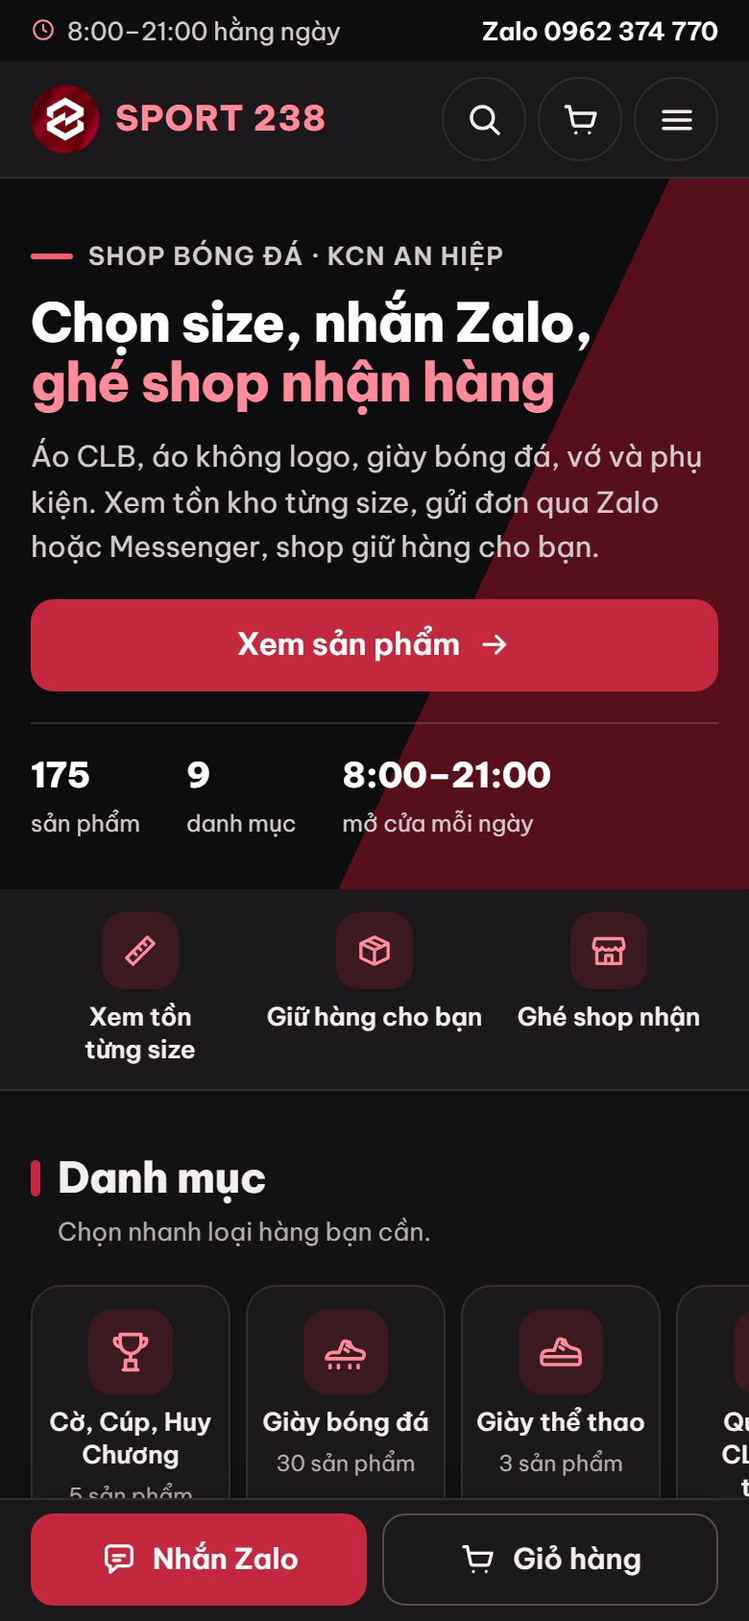
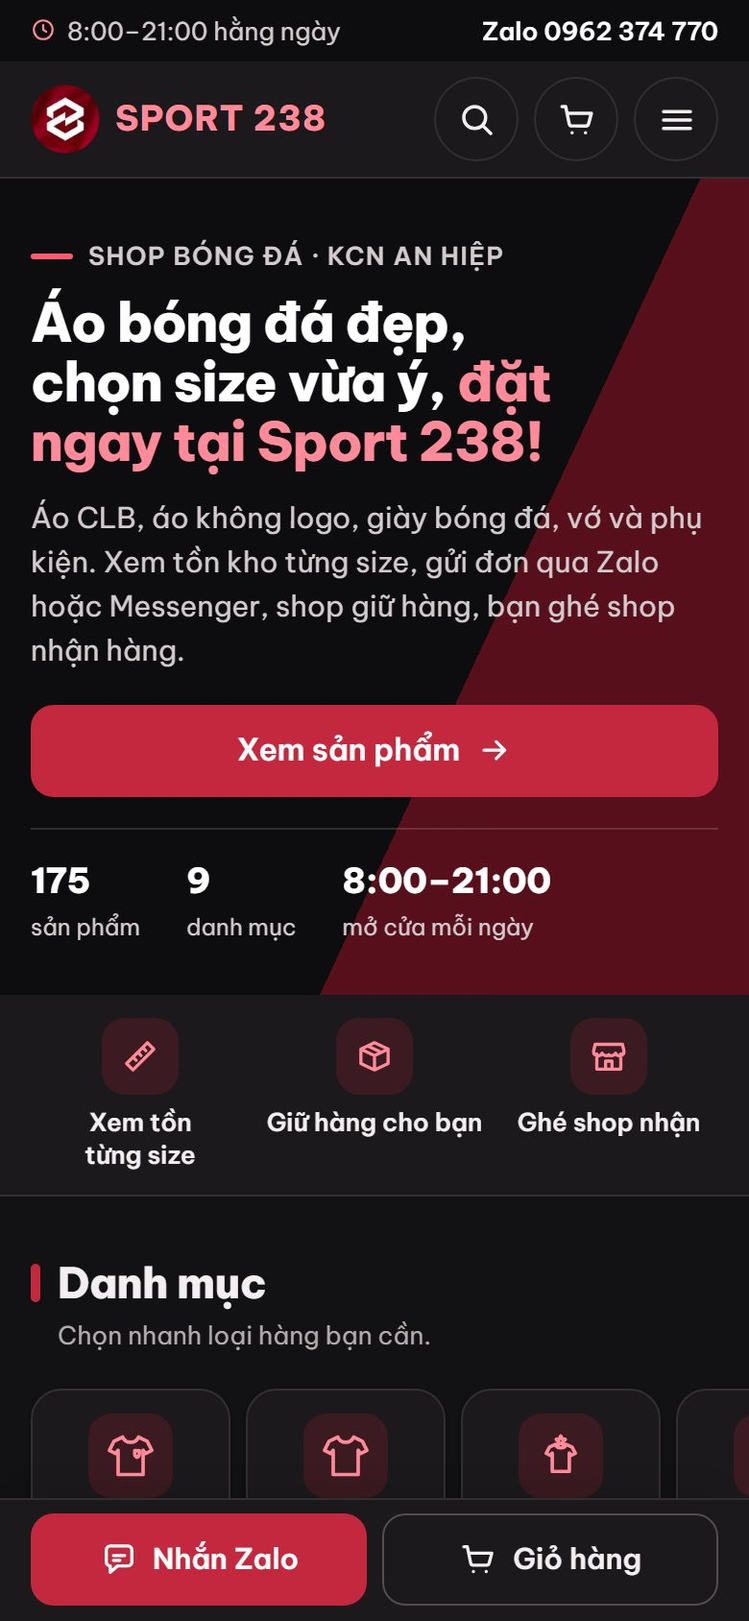
Yêu cầu 24/11 tối: khẩu hiệu mới, quần áo/giày trước Cờ cúp, lọc giá luôn hiện, Messenger điền sẵn đơn, nút Chia sẻ điền sẵn trên điện thoại
- SLOGAN "Áo bóng đá đẹp, chọn size vừa ý, đặt ngay tại Sport 238!" (Next + HTML dự phòng, HTML nhỏ chữ giữ 3 dòng)
- Thứ tự danh mục: Quần áo CLB, không logo, trẻ em, Giày bóng đá, Giày thể thao, Cờ cúp… (Next, HTML, trang quản trị, CLAUDE.md)
- Lọc giá ra ngoài "Lọc thêm" (điện thoại thấy ngay)
- mText: m.me/…?text= cho giỏ, hỏi shop, đặt đội; nút Chia sẻ của máy gửi chữ (+ ảnh) điền sẵn; Zalo không có cách điền sẵn
- xem-web.bat: xem đúng bản chính (localhost:3000 là bản HTML dự phòng)
- PROPOSALS: bảng tình trạng các mục đã duyệt, đề xuất mới M1–M12; ghi nhận C3 chưa làm
- tests/test_gui_don.py; toàn bộ 19/19 bài 0 lỗi, Lighthouse đạt

diff --git a/sport-shop-app/public/index.html b/sport-shop-app/public/index.html
@@ -32,6 +32,8 @@ a{color:inherit}button{font:inherit;cursor:pointer;color:inherit}img{max-width:1
 .hero{display:grid;grid-template-columns:1.15fr 1fr;gap:30px;align-items:center;padding:56px 0 30px}
 .pill{display:inline-block;background:var(--soft);color:var(--accent2);font-weight:600;font-size:14px;padding:7px 16px;border-radius:99px}
 .hero h1{font-size:clamp(34px,5.4vw,62px);line-height:1.08;font-weight:800;margin:18px 0 16px;letter-spacing:-.02em}.hl{color:var(--accent)}
+/* khẩu hiệu dài hơn (24/11/2026): nhỏ chữ để giữ 3 dòng trên máy tính */
+.hero h1.slg{font-size:clamp(28px,4vw,48px)}
 .hero p{font-size:19px;color:var(--ink);margin:0 0 26px;max-width:30em}
 .btn{display:inline-flex;align-items:center;justify-content:center;gap:8px;border:2px solid var(--accent);background:var(--accent);color:var(--on);font-weight:700;padding:15px 34px;border-radius:99px;text-decoration:none;box-shadow:0 10px 24px -10px var(--accent)}
 .btn.ghost{background:transparent;color:var(--accent2);box-shadow:none}.btn:disabled{opacity:.5;cursor:default}
@@ -284,7 +286,7 @@ function fold(s){return String(s||"").toLowerCase().normalize("NFD").replace(/[\
 var ADULT=["S","M","L","XL","XXL","XXXL","XXXXL"];
 function sk(s){var n=+s;return isNaN(n)?100+ADULT.indexOf(s):n}
 function grp(c,s){return c==="Giày bóng đá"||c==="Giày thể thao"||!s?"":(/^\d+$/.test(s)?"Trẻ em":/^(XS|S|M|L|XL|XXL|XXXL|XXXXL|[2-6]XL)$/i.test(s)?"Người lớn":"")}
-var CATS=[["Cờ, Cúp, Huy Chương","🏆","#7c5a10","#c99a2e"],["Giày bóng đá","👟","#a3122a","#d63a50"],["Giày thể thao","🏃","#44403c","#857467"],["Quần áo CLB/Đội tuyển","⚽","#2b2b30","#55555e"],["Quần áo không logo","👕","#8a0f23","#bd2a3f"],["Quần áo trẻ em","🧒","#c2410c","#f0883e"],["Phụ kiện thể thao","🎒","#3a3a40","#1d1d20"],["Vớ/tất ống đồng","🧦","#b3202f","#e0566a"],["Cầu lông","🏸","#0f6a45","#2faa6f"]];
+var CATS=[["Quần áo CLB/Đội tuyển","⚽","#2b2b30","#55555e"],["Quần áo không logo","👕","#8a0f23","#bd2a3f"],["Quần áo trẻ em","🧒","#c2410c","#f0883e"],["Giày bóng đá","👟","#a3122a","#d63a50"],["Giày thể thao","🏃","#44403c","#857467"],["Cờ, Cúp, Huy Chương","🏆","#7c5a10","#c99a2e"],["Phụ kiện thể thao","🎒","#3a3a40","#1d1d20"],["Vớ/tất ống đồng","🧦","#b3202f","#e0566a"],["Cầu lông","🏸","#0f6a45","#2faa6f"]];
 var EMO={};CATS.forEach(function(c){EMO[c[0]]=c[1]});
 var NEEDSIZE=["Giày bóng đá","Giày thể thao","Quần áo CLB/Đội tuyển","Quần áo không logo","Quần áo trẻ em"];
 function hue(t){var h=0;String(t).split("").forEach(function(c){h=(h*31+c.charCodeAt(0))%360});return h}
@@ -387,7 +389,7 @@ function list(){var a=matches(),show=a.slice(0,S.limit),r=a.length-show.length,q
 function refilter(){S.limit=PAGE;list()}
 function syncChips(){all(".chip").forEach(function(x){x.setAttribute("aria-pressed",x.dataset.c===S.cat)})}
 function home(){var cn=["Tất cả"].concat(CATS.map(function(c){return c[0]}));
- $("#app").innerHTML='<div class="herobg"><div class="wrap"><section id="top" class="hero"><div><span class="pill">⚽ PASSION FOR FOOTBALL</span><h1>Đồ bóng đá,<br><span class="hl">chọn đúng size</span><br>nhận tại shop</h1><p>Xem size, màu và tình trạng hàng, thêm vào giỏ rồi gửi danh sách cho shop qua Zalo hoặc Messenger. Shop giữ hàng, bạn ghé lấy.</p><div class="hbtns"><a class="btn" href="#san-pham">Xem sản phẩm →</a><a class="btn ghost" data-zl target="_blank" rel="noopener">💬 Nhắn Zalo</a></div></div>'+
+ $("#app").innerHTML='<div class="herobg"><div class="wrap"><section id="top" class="hero"><div><span class="pill">⚽ PASSION FOR FOOTBALL</span><h1 class="slg">Áo bóng đá đẹp,<br><span class="hl">chọn size vừa ý</span>,<br>đặt ngay tại Sport 238!</h1><p>Xem size, màu và tình trạng hàng, thêm vào giỏ rồi gửi danh sách cho shop qua Zalo hoặc Messenger. Shop giữ hàng, bạn ghé lấy.</p><div class="hbtns"><a class="btn" href="#san-pham">Xem sản phẩm →</a><a class="btn ghost" data-zl target="_blank" rel="noopener">💬 Nhắn Zalo</a></div></div>'+
[1 lines of base64/hex data omitted]
  '<div class="stats"><div class="stat"><b>'+P.length+'</b><span>sản phẩm</span></div><div class="stat"><b>'+CATS.length+'</b><span>danh mục</span></div><div class="stat"><b>📏</b><span>Xem tồn từng size</span></div><div class="stat"><b>📍</b><span>Ghé shop nhận hàng</span></div></div></div></div>'+
  '<div class="ribbon" aria-hidden="true"><div><span>ÁO CLB &amp; ĐỘI TUYỂN ⚽</span><span>GIÀY BÓNG ĐÁ 👟</span><span>ĐỒNG PHỤC ĐỘI NHÓM 🎽</span><span>CÚP · HUY CHƯƠNG 🏆</span><span>PHỤ KIỆN 🎒</span><span>CẦU LÔNG 🏸</span><span>ÁO CLB &amp; ĐỘI TUYỂN ⚽</span><span>GIÀY BÓNG ĐÁ 👟</span><span>ĐỒNG PHỤC ĐỘI NHÓM 🎽</span><span>CÚP · HUY CHƯƠNG 🏆</span><span>PHỤ KIỆN 🎒</span><span>CẦU LÔNG 🏸</span></div></div>'+

diff --git a/sport-shop-next/frontend/components/CartDrawer.tsx b/sport-shop-next/frontend/components/CartDrawer.tsx
@@ -1,6 +1,6 @@
 "use client";
 import { useEffect, useRef, useState } from "react";
-import { HOURS, links, money, OVER } from "@/lib/shop";
+import { HOURS, links, money, mText, OVER } from "@/lib/shop";
 import { Icon } from "./Icons";
 import { useShop } from "./Providers";
 
@@ -10,7 +10,7 @@ export default function CartDrawer() {
   const taRef = useRef<HTMLTextAreaElement>(null);
   const dr = useRef<HTMLDivElement>(null);
   const opener = useRef<HTMLElement | null>(null);
-  const [msg, setMsg] = useState<{ ok: boolean; where: string } | null>(null);
+  const [msg, setMsg] = useState<{ ok: boolean; where: string; shared?: boolean } | null>(null);
   const [ask, setAsk] = useState(false);
   const has = items.length > 0;
   const text = has ? orderText() : "";
@@ -60,24 +60,27 @@ export default function CartDrawer() {
     setMsg({ ok, where });
     toast(ok ? "Đã sao chép đơn hàng" : "Chưa sao chép được, hãy sao chép thủ công");
   };
-  // N1: gửi đơn kèm ảnh sản phẩm bằng nút chia sẻ của điện thoại (chọn Zalo/Messenger trong bảng chia sẻ).
-  // Chỉ hiện khi máy chia sẻ được tệp và có món có ảnh thật. Chép chữ trước: một số ứng dụng bỏ chữ khi nhận ảnh.
+  // N1 + "không cần dán": trên điện thoại, nút Chia sẻ của máy đưa sẵn chữ đơn (và ảnh từng món nếu có) vào Zalo/Messenger,
+  // khách chỉ chọn Zalo → chọn shop → Gửi. Web không thể tự dán vào khung chat Zalo (Zalo không cho), nên đây là cách gần nhất.
+  // Chép chữ trước: một số ứng dụng bỏ chữ khi nhận ảnh.
+  const [canShare, setCanShare] = useState(false);
   const [canFiles, setCanFiles] = useState(false);
   useEffect(() => {
+    setCanShare(typeof navigator.share === "function" && matchMedia("(pointer: coarse)").matches);
     try { setCanFiles(!!navigator.canShare?.({ files: [new File([new Blob(["x"])], "a.jpg", { type: "image/jpeg" })] })); } catch { setCanFiles(false); }
   }, []);
-  const withImg = items.filter((i) => i.img);
-  const shareImages = async () => {
+  const withImg = canFiles ? items.filter((i) => i.img) : [];
+  const shareOrder = async () => {
     const ok = await copyText(text);
     try {
       const files = await Promise.all([...new Map(withImg.map((i) => [i.img!, i])).values()].map(async (i) => {
         const b = await (await fetch(i.img!)).blob();
         return new File([b], `${i.sku}.${(b.type.split("/")[1] || "jpg").replace("jpeg", "jpg")}`, { type: b.type || "image/jpeg" });
       }));
-      await navigator.share({ files, text });
-      setMsg({ ok, where: "ứng dụng vừa chọn" });
+      await navigator.share(files.length ? { files, text } : { text });
+      setMsg({ ok, where: "", shared: true });
     } catch (e) {
-      if ((e as Error)?.name !== "AbortError") toast("Máy chưa gửi được ảnh. Hãy dùng nút Sao chép đơn & mở Zalo.");
+      if ((e as Error)?.name !== "AbortError") toast("Máy chưa chia sẻ được. Hãy dùng nút Sao chép đơn & mở Zalo.");
     }
   };
 
@@ -128,8 +131,12 @@ export default function CartDrawer() {
             <textarea ref={taRef} id="ordtxt" readOnly rows={5} value={text} aria-label="Nội dung đơn hàng" />
             <div className={"cpok " + (msg ? (msg.ok ? "ok" : "bad") : "")} id="cpok" role="status" hidden={!msg}>
               {msg && <Icon n={msg.ok ? "check" : "warn"} />}
-              <span>{msg && (msg.ok
-                ? `Đã sao chép đơn hàng. ${msg.where ? `Trong ${msg.where}, bấm vào khung chat, dán (Ctrl+V hoặc bấm giữ rồi chọn Dán) và gửi cho shop.` : "Mở Zalo hoặc Messenger, dán vào khung chat rồi gửi cho shop."}`
+              <span>{msg && (msg.shared
+                ? "Đơn đã được điền sẵn trong ứng dụng bạn chọn. Chọn Sport 238 rồi bấm Gửi."
+                : msg.ok
+                ? msg.where === "Messenger"
+                  ? "Messenger đã điền sẵn đơn vào khung chat, bạn chỉ cần bấm Gửi. Nếu khung chat trống: bấm giữ rồi chọn Dán (đơn đã được sao chép)."
+                  : `Đã sao chép đơn hàng. ${msg.where ? `Trong ${msg.where}, bấm vào khung chat, dán (Ctrl+V hoặc bấm giữ rồi chọn Dán) và gửi cho shop.` : "Mở Zalo hoặc Messenger, dán vào khung chat rồi gửi cho shop."}`
                 : "Chưa sao chép được tự động. Hãy bấm vào khung tin nhắn ở trên, chọn hết (Ctrl+A), sao chép (Ctrl+C) rồi dán vào chat.")}</span>
             </div>
           </div>
@@ -138,8 +145,8 @@ export default function CartDrawer() {
         <div className="df">
           <div className="sum" hidden={!has}><span>Tạm tính</span><b id="dt">{money(total)}</b></div>
           <a className="btn" id="zs" href={l.zalo} target="_blank" rel="noopener" onClick={() => { if (has) void run("Zalo"); }}><Icon n="chat" />{has ? "Sao chép đơn & mở Zalo" : "Nhắn Zalo cho shop"}</a>
-          <a className="btn ghost" id="fs" href={l.messenger} target="_blank" rel="noopener" onClick={() => { if (has) void run("Messenger"); }}><Icon n="messenger" />{has ? "Sao chép đơn & mở Messenger" : "Nhắn Messenger"}</a>
-          {has && canFiles && withImg.length > 0 && <button type="button" className="btn ghost" id="shareimg" onClick={() => void shareImages()}><Icon n="share" />Gửi đơn kèm ảnh ({withImg.length} ảnh)</button>}
+          <a className="btn ghost" id="fs" href={has ? mText(l.messenger, text) : l.messenger} target="_blank" rel="noopener" onClick={() => { if (has) void run("Messenger"); }}><Icon n="messenger" />{has ? "Mở Messenger (đơn điền sẵn)" : "Nhắn Messenger"}</a>
+          {has && canShare && <button type="button" className="btn ghost" id="shareimg" onClick={() => void shareOrder()}><Icon n="share" />{withImg.length ? `Gửi đơn kèm ảnh (${withImg.length} ảnh)` : "Gửi đơn qua Zalo, Messenger… (điền sẵn)"}</button>}
         </div>
       </div>
     </>

diff --git a/sport-shop-app/tools/storefront.template.html b/sport-shop-app/tools/storefront.template.html
@@ -44,7 +44,7 @@ function fold(s){return String(s||"").toLowerCase().normalize("NFD").replace(/[\
 var ADULT=["S","M","L","XL","XXL","XXXL","XXXXL"];
 function sk(s){var n=+s;return isNaN(n)?100+ADULT.indexOf(s):n}
 function grp(c,s){return c==="Giày bóng đá"||c==="Giày thể thao"||!s?"":(/^\d+$/.test(s)?"Trẻ em":/^(XS|S|M|L|XL|XXL|XXXL|XXXXL|[2-6]XL)$/i.test(s)?"Người lớn":"")}
-var CATS=[["Cờ, Cúp, Huy Chương","🏆","#7c5a10","#c99a2e"],["Giày bóng đá","👟","#a3122a","#d63a50"],["Giày thể thao","🏃","#44403c","#857467"],["Quần áo CLB/Đội tuyển","⚽","#2b2b30","#55555e"],["Quần áo không logo","👕","#8a0f23","#bd2a3f"],["Quần áo trẻ em","🧒","#c2410c","#f0883e"],["Phụ kiện thể thao","🎒","#3a3a40","#1d1d20"],["Vớ/tất ống đồng","🧦","#b3202f","#e0566a"],["Cầu lông","🏸","#0f6a45","#2faa6f"]];
+var CATS=[["Quần áo CLB/Đội tuyển","⚽","#2b2b30","#55555e"],["Quần áo không logo","👕","#8a0f23","#bd2a3f"],["Quần áo trẻ em","🧒","#c2410c","#f0883e"],["Giày bóng đá","👟","#a3122a","#d63a50"],["Giày thể thao","🏃","#44403c","#857467"],["Cờ, Cúp, Huy Chương","🏆","#7c5a10","#c99a2e"],["Phụ kiện thể thao","🎒","#3a3a40","#1d1d20"],["Vớ/tất ống đồng","🧦","#b3202f","#e0566a"],["Cầu lông","🏸","#0f6a45","#2faa6f"]];
 var EMO={};CATS.forEach(function(c){EMO[c[0]]=c[1]});
 var NEEDSIZE=["Giày bóng đá","Giày thể thao","Quần áo CLB/Đội tuyển","Quần áo không logo","Quần áo trẻ em"];
 function hue(t){var h=0;String(t).split("").forEach(function(c){h=(h*31+c.charCodeAt(0))%360});return h}
@@ -147,7 +147,7 @@ function list(){var a=matches(),show=a.slice(0,S.limit),r=a.length-show.length,q
 function refilter(){S.limit=PAGE;list()}
 function syncChips(){all(".chip").forEach(function(x){x.setAttribute("aria-pressed",x.dataset.c===S.cat)})}
 function home(){var cn=["Tất cả"].concat(CATS.map(function(c){return c[0]}));
- $("#app").innerHTML='<div class="herobg"><div class="wrap"><section id="top" class="hero"><div><span class="pill">⚽ PASSION FOR FOOTBALL</span><h1>Đồ bóng đá,<br><span class="hl">chọn đúng size</span><br>nhận tại shop</h1><p>Xem size, màu và tình trạng hàng, thêm vào giỏ rồi gửi danh sách cho shop qua Zalo hoặc Messenger. Shop giữ hàng, bạn ghé lấy.</p><div class="hbtns"><a class="btn" href="#san-pham">Xem sản phẩm →</a><a class="btn ghost" data-zl target="_blank" rel="noopener">💬 Nhắn Zalo</a></div></div>'+
+ $("#app").innerHTML='<div class="herobg"><div class="wrap"><section id="top" class="hero"><div><span class="pill">⚽ PASSION FOR FOOTBALL</span><h1 class="slg">Áo bóng đá đẹp,<br><span class="hl">chọn size vừa ý</span>,<br>đặt ngay tại Sport 238!</h1><p>Xem size, màu và tình trạng hàng, thêm vào giỏ rồi gửi danh sách cho shop qua Zalo hoặc Messenger. Shop giữ hàng, bạn ghé lấy.</p><div class="hbtns"><a class="btn" href="#san-pham">Xem sản phẩm →</a><a class="btn ghost" data-zl target="_blank" rel="noopener">💬 Nhắn Zalo</a></div></div>'+
  '<div class="art" aria-hidden="true"><div class="b2"></div><div class="b1"></div><img class="lg" src="/*LOGO200*/" alt=""><span class="e1">⚽</span><span class="e2">👟</span><span class="e3">🏆</span><span class="cf f1">👟 Giày bóng đá</span><span class="cf f2">🏆 Cúp · Huy chương</span><span class="cf f3">⚽ Áo CLB &amp; đội tuyển</span></div></section>'+
  '<div class="stats"><div class="stat"><b>'+P.length+'</b><span>sản phẩm</span></div><div class="stat"><b>'+CATS.length+'</b><span>danh mục</span></div><div class="stat"><b>📏</b><span>Xem tồn từng size</span></div><div class="stat"><b>📍</b><span>Ghé shop nhận hàng</span></div></div></div></div>'+
  '<div class="ribbon" aria-hidden="true"><div><span>ÁO CLB &amp; ĐỘI TUYỂN ⚽</span><span>GIÀY BÓNG ĐÁ 👟</span><span>ĐỒNG PHỤC ĐỘI NHÓM 🎽</span><span>CÚP · HUY CHƯƠNG 🏆</span><span>PHỤ KIỆN 🎒</span><span>CẦU LÔNG 🏸</span><span>ÁO CLB &amp; ĐỘI TUYỂN ⚽</span><span>GIÀY BÓNG ĐÁ 👟</span><span>ĐỒNG PHỤC ĐỘI NHÓM 🎽</span><span>CÚP · HUY CHƯƠNG 🏆</span><span>PHỤ KIỆN 🎒</span><span>CẦU LÔNG 🏸</span></div></div>'+

diff --git a/sport-shop-next/frontend/components/Shop.tsx b/sport-shop-next/frontend/components/Shop.tsx
@@ -117,7 +117,7 @@ export default function Storefront({ data, updated }: { data: Packed; updated: s
   const inCat = useMemo(() => products.filter((p) => S.cat === "Tất cả" || p.cat === S.cat), [products, S.cat]);
   const sizeOpts = useMemo(() => [...new Set(inCat.flatMap((p) => p.variants.filter((v) => v.size && v.stock > 0).map((v) => v.size)))].sort((a, b) => sizeKey(a) - sizeKey(b) || a.localeCompare(b)), [inCat]);
   const brandOpts = useMemo(() => Object.entries(inCat.reduce<Record<string, number>>((a, p) => { if (p.brand) a[p.brand] = (a[p.brand] ?? 0) + 1; return a; }, {})).sort((a, b) => b[1] - a[1]), [inCat]);
-  const nFilter = [S.size, S.price, S.brand, S.fav].filter(Boolean).length;
+  const nFilter = [S.size, S.brand, S.fav].filter(Boolean).length;   // giá nằm ngoài "Lọc thêm" nên không đếm
   const found = useMemo(() => {
     const words = fold(S.q).split(/\s+/).filter(Boolean);
     return products
@@ -174,6 +174,10 @@ export default function Storefront({ data, updated }: { data: Packed; updated: s
         <div className="sh"><div><h2 id="sp-h">Sản phẩm đang bán</h2><p className="sub">Chọn size, màu rồi thêm vào giỏ.{updated && ` Tồn kho cập nhật ngày ${updated}.`}</p></div></div>
         <div className="tools">
           <label className="search"><Icon n="search" /><input id="q" type="search" placeholder="Tìm: giày, áo, tất, mã SP…" aria-label="Tìm sản phẩm" value={S.q} onChange={(e) => set({ q: e.target.value })} /></label>
+          {/* Lọc giá luôn hiện (chủ shop yêu cầu 24/11): không cần mở "Lọc thêm" */}
+          <select className="sel gia" id="fgia" aria-label="Lọc theo giá" value={S.price} onChange={(e) => set({ price: e.target.value })}>
+            <option value="">Mọi mức giá</option>{PRICE_RANGES.map((r) => <option key={r.id} value={r.id}>{r.label}</option>)}
+          </select>
           <select className="sel" id="st" aria-label="Tình trạng" value={S.st} onChange={(e) => set({ st: e.target.value })}>
             <option value="">Mọi tình trạng</option><option value="in">Còn hàng</option><option value="out">Hết hàng</option>
           </select>
@@ -189,14 +193,11 @@ export default function Storefront({ data, updated }: { data: Packed; updated: s
             <select className="sel" id="fsz" aria-label="Lọc theo size còn hàng" value={S.size} onChange={(e) => set({ size: e.target.value })}>
               <option value="">Mọi size</option>{sizeOpts.map((s) => <option key={s} value={s}>Size {s} còn hàng</option>)}
             </select>
-            <select className="sel" id="fgia" aria-label="Lọc theo giá" value={S.price} onChange={(e) => set({ price: e.target.value })}>
-              <option value="">Mọi mức giá</option>{PRICE_RANGES.map((r) => <option key={r.id} value={r.id}>{r.label}</option>)}
-            </select>
             <select className="sel" id="fhang" aria-label="Lọc theo hãng" value={S.brand} onChange={(e) => set({ brand: e.target.value })}>
               <option value="">Mọi hãng</option>{brandOpts.map(([b, n]) => <option key={b} value={b}>{b} ({n})</option>)}
             </select>
             <button type="button" className="chip" id="ffav" aria-pressed={S.fav} onClick={() => set({ fav: !S.fav })}><Icon n={S.fav ? "heart-on" : "heart"} />Yêu thích ({favs.length})</button>
-            {nFilter > 0 && <button type="button" className="clr" id="fclear" onClick={() => set({ size: "", price: "", brand: "", fav: false })}>Xóa lọc</button>}
+            {(nFilter > 0 || S.price) && <button type="button" className="clr" id="fclear" onClick={() => set({ size: "", price: "", brand: "", fav: false })}>Xóa lọc</button>}
           </div>
         </div>
         <div className="chips" role="group" aria-label="Lọc theo danh mục">

diff --git a/sport-shop-next/frontend/components/TeamOrder.tsx b/sport-shop-next/frontend/components/TeamOrder.tsx
@@ -3,7 +3,7 @@
    Giá in tên + số do chủ shop xác nhận (24/11/2026): từ 5 bộ 15.000đ/bộ, từ 10 bộ 10.000đ/bộ; dưới 5 bộ shop báo giá.
    Logo đội: shop báo giá. Không thanh toán online; ghé shop nhận hàng. */
 import { useMemo, useState } from "react";
-import { colorStock, defaultColor, links, money, PRINT_PRICES, type Product } from "@/lib/shop";
+import { colorStock, defaultColor, links, money, mText, PRINT_PRICES, type Product } from "@/lib/shop";
 import { copyText } from "./Extras";
 import { Icon } from "./Icons";
 import { useShop } from "./Providers";
@@ -154,10 +154,10 @@ export default function TeamOrder({ products }: { products: Product[] }) {
               <p className="tt"><span>Tạm tính</span><b id="tm-tong">{money(shirt + printTotal)}</b></p>
             </div>
             <textarea className="inp ta" id="tm-msg" readOnly rows={8} value={text} aria-label="Tin nhắn đặt đồng phục gửi shop" />
-            {msg && <p className={"cpok " + (msg.ok ? "ok" : "bad")} role="status">{msg.ok ? `Đã sao chép. ${msg.where ? `Trong ${msg.where}, dán vào khung chat rồi gửi cho shop.` : "Mở Zalo hoặc Messenger, dán rồi gửi."}` : "Chưa sao chép được tự động. Hãy chọn hết chữ trong khung trên, sao chép rồi dán vào chat."}</p>}
+            {msg && <p className={"cpok " + (msg.ok ? "ok" : "bad")} role="status">{msg.ok ? (msg.where === "Messenger" ? "Messenger đã điền sẵn đơn, bạn chỉ cần bấm Gửi. Nếu khung chat trống: bấm giữ rồi chọn Dán." : `Đã sao chép. ${msg.where ? `Trong ${msg.where}, dán vào khung chat rồi gửi cho shop.` : "Mở Zalo hoặc Messenger, dán rồi gửi."}`) : "Chưa sao chép được tự động. Hãy chọn hết chữ trong khung trên, sao chép rồi dán vào chat."}</p>}
             <div className="tact">
               <a className="btn" id="tm-zalo" data-zl href={l.zalo} target="_blank" rel="noopener" onClick={(e) => { if (!sets) { e.preventDefault(); toast("Bạn chưa nhập số lượng"); return; } void send("Zalo"); }}><Icon n="chat" />Sao chép đơn & mở Zalo</a>
-              <a className="btn ghost" id="tm-mess" href={l.messenger} target="_blank" rel="noopener" onClick={(e) => { if (!sets) { e.preventDefault(); toast("Bạn chưa nhập số lượng"); return; } void send("Messenger"); }}><Icon n="messenger" />Sao chép đơn & mở Messenger</a>
+              <a className="btn ghost" id="tm-mess" href={sets ? mText(l.messenger, text) : l.messenger} target="_blank" rel="noopener" onClick={(e) => { if (!sets) { e.preventDefault(); toast("Bạn chưa nhập số lượng"); return; } void send("Messenger"); }}><Icon n="messenger" />Mở Messenger (đơn điền sẵn)</a>
             </div>
           </li>
         )}

diff --git a/sport-shop-next/frontend/lib/shop.ts b/sport-shop-next/frontend/lib/shop.ts
@@ -1,15 +1,16 @@
 import raw from "../data/products.json";
 import rawImages from "../data/images.json";
 
-/** 9 danh mục của web. Thứ tự và biểu tượng (SVG trong components/Icons.tsx) sửa ở đây. Tên phải khớp với tên danh mục trong dữ liệu. */
+/** 9 danh mục của web. Thứ tự và biểu tượng (SVG trong components/Icons.tsx) sửa ở đây. Tên phải khớp với tên danh mục trong dữ liệu.
+ *  Thứ tự (chủ shop yêu cầu 24/11/2026): quần áo, giày trước; Cờ, Cúp, Huy Chương sau. */
 export type CatIconName = "trophy" | "boot" | "sneaker" | "jersey" | "tee" | "kids" | "bag" | "sock" | "shuttle";
 export const CATEGORIES: readonly { name: string; icon: CatIconName }[] = [
-  { name: "Cờ, Cúp, Huy Chương", icon: "trophy" },
-  { name: "Giày bóng đá", icon: "boot" },
-  { name: "Giày thể thao", icon: "sneaker" },
   { name: "Quần áo CLB/Đội tuyển", icon: "jersey" },
   { name: "Quần áo không logo", icon: "tee" },
   { name: "Quần áo trẻ em", icon: "kids" },
+  { name: "Giày bóng đá", icon: "boot" },
+  { name: "Giày thể thao", icon: "sneaker" },
+  { name: "Cờ, Cúp, Huy Chương", icon: "trophy" },
   { name: "Phụ kiện thể thao", icon: "bag" },
   { name: "Vớ/tất ống đồng", icon: "sock" },
   { name: "Cầu lông", icon: "shuttle" },
@@ -50,6 +51,15 @@ export const PRICE_RANGES = [
 export const OVER = "Số lượng vượt tồn kho trên web, shop sẽ kiểm tra lại khi chốt đơn";
 /** Bỏ dấu tiếng Việt để tìm kiếm: "Giày" -> "giay", "Đỏ" -> "do" */
 export const fold = (s: string) => (s ?? "").toLowerCase().normalize("NFD").replace(/[\u0300-\u036f]/g, "").replace(/đ/g, "d");
+/** Câu khẩu hiệu của shop (chủ shop đặt 24/11/2026) */
+export const SLOGAN = "Áo bóng đá đẹp, chọn size vừa ý, đặt ngay tại Sport 238!";
+/** Link Messenger điền sẵn tin nhắn (tham số text của m.me – tài liệu Meta). Zalo không có cách điền sẵn từ web.
+ *  Link quá dài thì bỏ phần điền sẵn (khách dán đơn đã sao chép). */
+export const mText = (url: string, t: string) => {
+  if (!t) return url;
+  const u = `${url}?text=${encodeURIComponent(t)}`;
+  return u.length <= 8000 ? u : url;
+};
 export const links = (s: Site) => ({
   zalo: `https://zalo.me/${s.zalo}`,
   messenger: `https://m.me/${s.messenger}`,

diff --git a/sport-shop-next/frontend/components/Extras.tsx b/sport-shop-next/frontend/components/Extras.tsx
@@ -3,7 +3,7 @@
    A4 hỏi shop (sao chép sẵn câu hỏi), B5 chia sẻ, A5 bản đồ tải khi bấm, B4 sản phẩm cùng loại + đã xem gần đây. */
 import Link from "next/link";
 import { useEffect, useState } from "react";
-import { hexesIn, ICON_OF } from "@/lib/shop";
+import { hexesIn, ICON_OF, mText } from "@/lib/shop";
 import { Art, Icon } from "./Icons";
 import { useShop } from "./Providers";
 
@@ -24,14 +24,18 @@ export async function copyText(t: string): Promise<boolean> {
 /** A4: hỏi shop về sản phẩm — sao chép sẵn câu hỏi (tên, mã, size, màu, link) rồi mở Zalo/Messenger */
 export function AskShop({ question }: { question: () => string }) {
   const { site, toast } = useShop();
+  // Link Messenger điền sẵn câu hỏi: chỉ tính trên máy khách (câu hỏi có địa chỉ trang, lúc dựng sẵn chưa có)
+  const base = `https://m.me/${site.messenger}`;
+  const [mHref, setMHref] = useState(base);
+  useEffect(() => { const h = mText(base, question()); if (h !== mHref) setMHref(h); });
   const go = async (where: string) => {
     const ok = await copyText(question());
-    toast(ok ? `Đã sao chép câu hỏi. Trong ${where}, dán vào khung chat rồi gửi.` : `Chưa sao chép được, hãy gõ câu hỏi trong ${where}.`);
+    toast(where === "Messenger" ? "Messenger sẽ điền sẵn câu hỏi, bạn chỉ cần bấm Gửi." : ok ? `Đã sao chép câu hỏi. Trong ${where}, dán vào khung chat rồi gửi.` : `Chưa sao chép được, hãy gõ câu hỏi trong ${where}.`);
   };
   return (
     <div className="ask" role="group" aria-label="Hỏi shop về sản phẩm này">
       <a className="btn ghost" id="askz" href={`https://zalo.me/${site.zalo}`} target="_blank" rel="noopener" onClick={() => void go("Zalo")}><Icon n="chat" />Hỏi qua Zalo</a>
-      <a className="btn ghost" id="askm" data-fb href={`https://m.me/${site.messenger}`} target="_blank" rel="noopener" onClick={() => void go("Messenger")}><Icon n="messenger" />Hỏi qua Messenger</a>
+      <a className="btn ghost" id="askm" data-fb href={mHref} target="_blank" rel="noopener" onClick={() => void go("Messenger")}><Icon n="messenger" />Hỏi qua Messenger</a>
     </div>
   );
 }

diff --git a/sport-shop-next/frontend/app/layout.tsx b/sport-shop-next/frontend/app/layout.tsx
@@ -6,7 +6,7 @@ import CartDrawer from "@/components/CartDrawer";
 import Header, { BottomBar } from "@/components/Header";
 import { Icon } from "@/components/Icons";
 import Providers from "@/components/Providers";
-import { getSite, HOURS, links, phone, SITE_URL } from "@/lib/shop";
+import { getSite, HOURS, links, phone, SITE_URL, SLOGAN } from "@/lib/shop";
 import "./globals.css";
 
 // 3 độ đậm là đủ cho hệ thống thiết kế (thường, nhãn/nút, tiêu đề/giá): ít tệp phông hơn, trang nhanh hơn
@@ -20,7 +20,7 @@ export const metadata: Metadata = {
   icons: { apple: "/icon-192.png" },
   appleWebApp: { capable: true, title: "SPORT 238", statusBarStyle: "default" },
   ...(SITE_URL ? { metadataBase: new URL(SITE_URL), alternates: { canonical: "/" } } : {}),
-  openGraph: { type: "website", locale: "vi_VN", siteName: "SPORT 238", title: "SPORT 238 – Đồ bóng đá, giày, phụ kiện", description: "Chọn size, thêm vào giỏ rồi nhắn shop qua Zalo hoặc Messenger. Ghé shop nhận hàng tại KCN An Hiệp, Vĩnh Long.", ...(SITE_URL ? { url: "/", images: [{ url: "/logo.png", alt: "SPORT 238" }] } : {}) },
+  openGraph: { type: "website", locale: "vi_VN", siteName: "SPORT 238", title: "SPORT 238 – Đồ bóng đá, giày, phụ kiện", description: `${SLOGAN} Chọn size, nhắn shop qua Zalo hoặc Messenger, ghé shop nhận hàng tại KCN An Hiệp, Vĩnh Long.`, ...(SITE_URL ? { url: "/", images: [{ url: "/logo.png", alt: "SPORT 238" }] } : {}) },
   title: "SPORT 238 – Đồ bóng đá, giày, phụ kiện | KCN An Hiệp",
   description: "SPORT 238 – KCN An Hiệp, Vĩnh Long: áo bóng đá, giày bóng đá, quần áo thể thao, đồng phục đội nhóm, phụ kiện bóng đá. Mở cửa 8:00–21:00 hằng ngày.",
 };

diff --git a/sport-shop-next/frontend/app/globals.css b/sport-shop-next/frontend/app/globals.css
@@ -167,7 +167,7 @@ h1,h2,h3{line-height:1.2;margin:0}p{margin:0}
 .cat span{display:block;align-self:start;font-size:var(--fs-sm);color:var(--muted)}
 
 /* công cụ lọc */
-.tools{display:grid;grid-template-columns:minmax(0,1fr) auto auto;gap:var(--sp-2);margin-bottom:var(--sp-3)}
+.tools{display:grid;grid-template-columns:minmax(0,1fr) auto auto auto;gap:var(--sp-2);margin-bottom:var(--sp-3)}
 .search{display:flex;align-items:center;gap:var(--sp-2);min-height:48px;padding:0 var(--sp-4);border:1.5px solid var(--line-strong);border-radius:var(--r);background:var(--surface);color:var(--muted)}
 .search:focus-within{border-color:var(--brand-ink);box-shadow:0 0 0 3px var(--brand-soft)}
 .search .i{font-size:20px}
@@ -452,7 +452,7 @@ footer .fnote{grid-column:1/-1;padding-top:var(--sp-4);border-top:1px solid rgba
   .cat b{font-size:var(--fs-sm)}
   .cat span{font-size:11.5px}
   .tools{grid-template-columns:1fr 1fr}
-  .search{grid-column:1/-1}
+  .search,.tools .gia{grid-column:1/-1}
   .sel{width:100%;min-height:44px;font-size:var(--fs-md)}
   .grid{grid-template-columns:repeat(2,minmax(0,1fr));gap:10px}
   .card{border-radius:var(--r)}

diff --git a/sport-shop-app/public/admin.html b/sport-shop-app/public/admin.html
@@ -133,7 +133,7 @@ code{background:var(--sf2);padding:1px 5px;border-radius:5px}
 </dialog>
 <script>
 var $=function(s){return document.querySelector(s)},all=function(s){return Array.prototype.slice.call(document.querySelectorAll(s))},esc=function(s){return String(s).replace(/[&<>"]/g,function(c){return{"&":"&amp;","<":"&lt;",">":"&gt;",'"':"&quot;"}[c]})};
-var CATS=["Cờ, Cúp, Huy Chương","Giày bóng đá","Giày thể thao","Quần áo CLB/Đội tuyển","Quần áo không logo","Quần áo trẻ em","Phụ kiện thể thao","Vớ/tất ống đồng","Cầu lông"];
+var CATS=["Quần áo CLB/Đội tuyển","Quần áo không logo","Quần áo trẻ em","Giày bóng đá","Giày thể thao","Cờ, Cúp, Huy Chương","Phụ kiện thể thao","Vớ/tất ống đồng","Cầu lông"];
 function fbUser(v){v=String(v||"").trim();var m=v.match(/(?:facebook\.com|fb\.com|m\.me)\/(?:profile\.php\?id=)?([^\/?#&\s]+)/i);if(m)v=m[1];return v.replace(/^@/,"")}
 var data={products:[],images:{}},cur=null,edit={},flt={q:"",chip:"all",type:"",sort:""},dirty=false,order=[],sel={},busy=false;
 function nm(p){return p.display_title||p.title}

diff --git a/sport-shop-next/frontend/public/admin/index.html b/sport-shop-next/frontend/public/admin/index.html
@@ -133,7 +133,7 @@ code{background:var(--sf2);padding:1px 5px;border-radius:5px}
 </dialog>
 <script>
 var $=function(s){return document.querySelector(s)},all=function(s){return Array.prototype.slice.call(document.querySelectorAll(s))},esc=function(s){return String(s).replace(/[&<>"]/g,function(c){return{"&":"&amp;","<":"&lt;",">":"&gt;",'"':"&quot;"}[c]})};
-var CATS=["Cờ, Cúp, Huy Chương","Giày bóng đá","Giày thể thao","Quần áo CLB/Đội tuyển","Quần áo không logo","Quần áo trẻ em","Phụ kiện thể thao","Vớ/tất ống đồng","Cầu lông"];
+var CATS=["Quần áo CLB/Đội tuyển","Quần áo không logo","Quần áo trẻ em","Giày bóng đá","Giày thể thao","Cờ, Cúp, Huy Chương","Phụ kiện thể thao","Vớ/tất ống đồng","Cầu lông"];
 function fbUser(v){v=String(v||"").trim();var m=v.match(/(?:facebook\.com|fb\.com|m\.me)\/(?:profile\.php\?id=)?([^\/?#&\s]+)/i);if(m)v=m[1];return v.replace(/^@/,"")}
 var data={products:[],images:{}},cur=null,edit={},flt={q:"",chip:"all",type:"",sort:""},dirty=false,order=[],sel={},busy=false;
 function nm(p){return p.display_title||p.title}

diff --git a/sport-shop-app/tools/storefront.css b/sport-shop-app/tools/storefront.css
@@ -25,6 +25,8 @@ a{color:inherit}button{font:inherit;cursor:pointer;color:inherit}img{max-width:1
 .hero{display:grid;grid-template-columns:1.15fr 1fr;gap:30px;align-items:center;padding:56px 0 30px}
 .pill{display:inline-block;background:var(--soft);color:var(--accent2);font-weight:600;font-size:14px;padding:7px 16px;border-radius:99px}
 .hero h1{font-size:clamp(34px,5.4vw,62px);line-height:1.08;font-weight:800;margin:18px 0 16px;letter-spacing:-.02em}.hl{color:var(--accent)}
+/* khẩu hiệu dài hơn (24/11/2026): nhỏ chữ để giữ 3 dòng trên máy tính */
+.hero h1.slg{font-size:clamp(28px,4vw,48px)}
 .hero p{font-size:19px;color:var(--ink);margin:0 0 26px;max-width:30em}
 .btn{display:inline-flex;align-items:center;justify-content:center;gap:8px;border:2px solid var(--accent);background:var(--accent);color:var(--on);font-weight:700;padding:15px 34px;border-radius:99px;text-decoration:none;box-shadow:0 10px 24px -10px var(--accent)}
 .btn.ghost{background:transparent;color:var(--accent2);box-shadow:none}.btn:disabled{opacity:.5;cursor:default}
